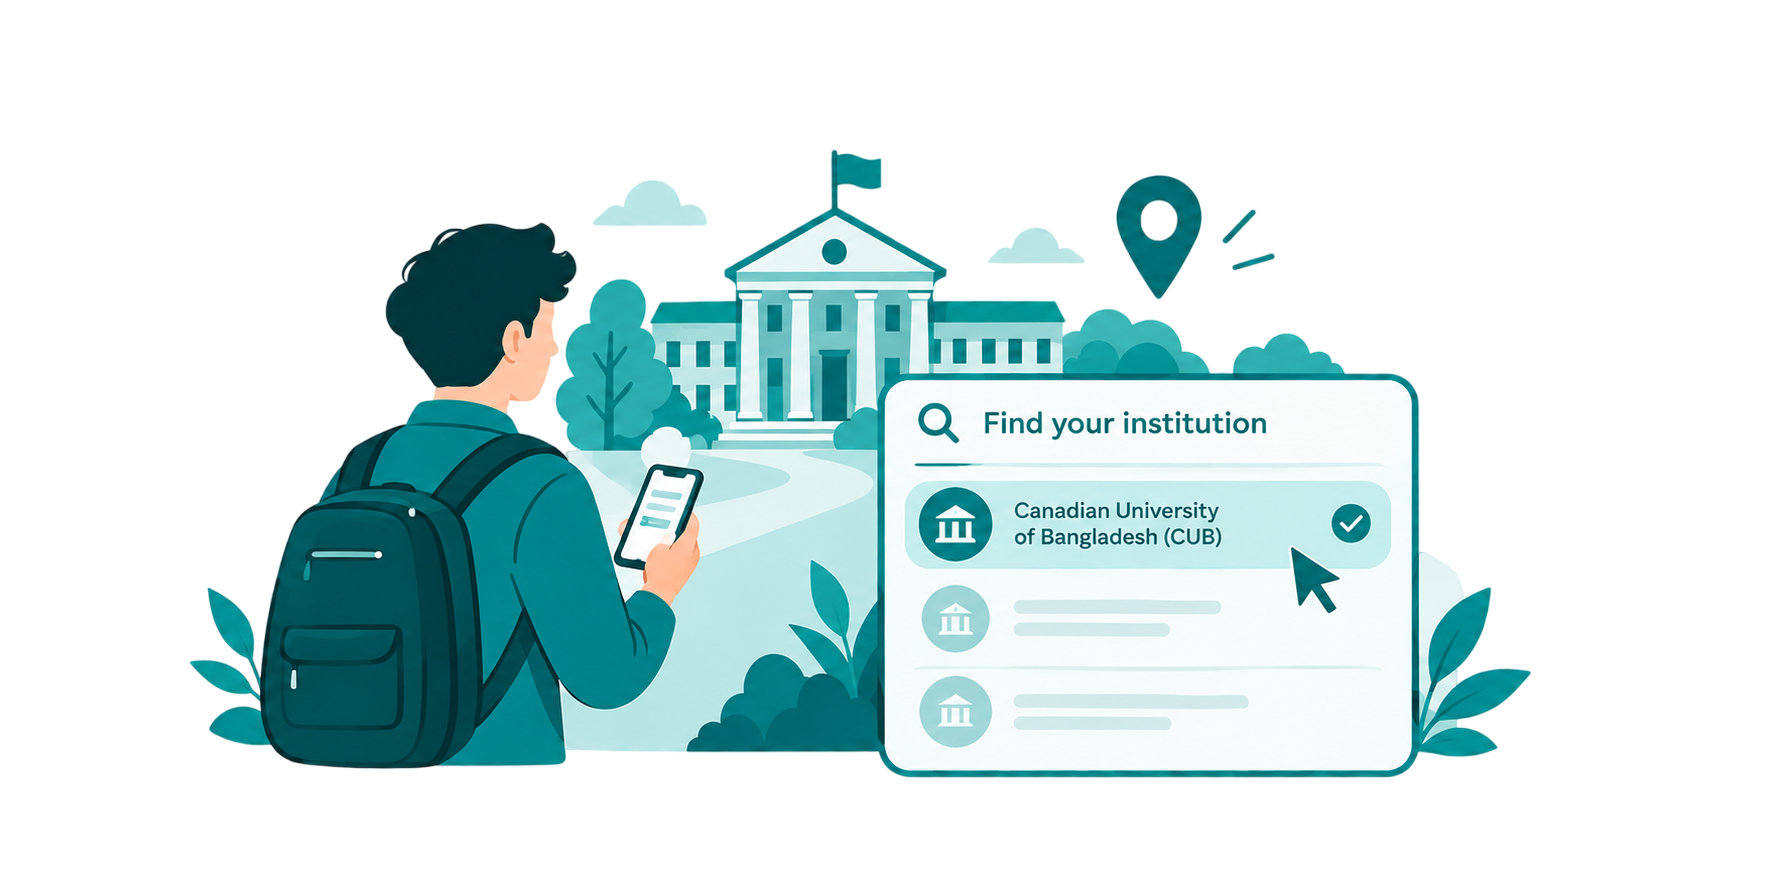
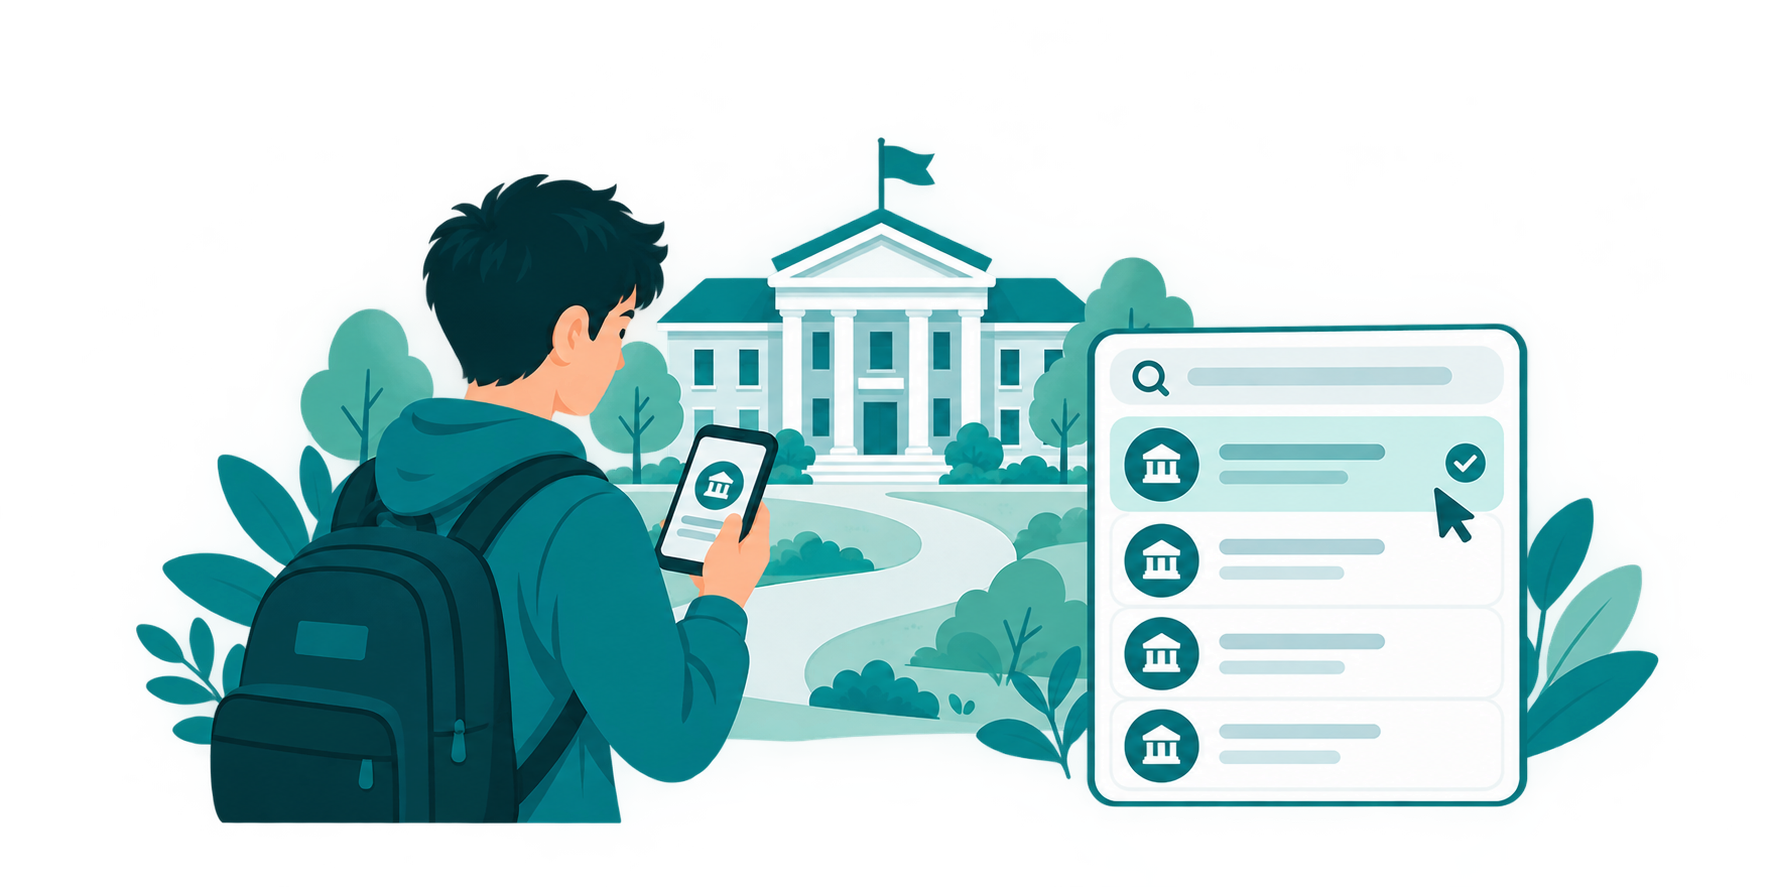
feat: enhance RoleCard and StepCard components with improved layout and styles

diff --git a/src/components/main/role-card.tsx b/src/components/main/role-card.tsx
@@ -6,31 +6,36 @@ import { RoleCardProps } from "@/types/how-it-works";
 // Component to display the role-specific benefits card
 export function RoleCard({ card }: RoleCardProps): React.JSX.Element {
   return (
-    <div className="bg-card border border-border/70 rounded-3xl p-8 md:p-10 flex flex-col relative overflow-hidden group">
-      <span className="text-[10px] font-bold tracking-widest text-primary uppercase mb-2">
-        {card.tag}
-      </span>
-      <h3 className="text-2xl font-bold text-foreground mb-6 text-balance">
-        {card.title}
-      </h3>
-      <ul className="flex flex-col gap-3 mb-16 z-10">
-        {card.items.map((item, i) => (
-          <li key={i} className="flex items-center gap-3 text-sm text-muted-foreground">
-            <CheckCircle2 className="w-4 h-4 text-primary shrink-0" />
-            {item}
-          </li>
-        ))}
-      </ul>
-      <div className="absolute right-2 bottom-2 md:right-8 md:bottom-8 w-1/2 max-w-[240px] pointer-events-none">
+    <div className="bg-card border border-border/70 rounded-3xl grid grid-cols-1 md:grid-cols-2 min-h-[350px] md:min-h-[400px] overflow-hidden group items-stretch relative">
+      
+      {/* Content */}
+      <div className="flex flex-col p-8 md:p-10 justify-center z-10">
+        <span className="text-[10px] font-bold tracking-widest text-primary uppercase mb-2">
+          {card.tag}
+        </span>
+        <h3 className="text-2xl font-bold text-foreground mb-6 text-balance">
+          {card.title}
+        </h3>
+        <ul className="flex flex-col gap-3">
+          {card.items.map((item, i) => (
+            <li key={i} className="flex items-center gap-3 text-sm text-muted-foreground">
+              <CheckCircle2 className="w-4 h-4 text-primary shrink-0" />
+              {item}
+            </li>
+          ))}
+        </ul>
+      </div>
+
+      {/* Image Container */}
+      <div className="relative w-full h-62.5 md:h-full flex items-end justify-end">
         <Image
           src={card.image}
           alt={card.alt}
-          width={240}
-          height={180}
-          className="w-full h-auto object-contain opacity-90 group-hover:scale-105 transition-transform duration-500 rounded-lg"
+          fill
+          className="object-cover md:object-contain object-bottom md:object-bottom-right scale-100 md:scale-125 md:origin-bottom-right group-hover:scale-105 md:group-hover:scale-150 transition-transform duration-700"
         />
       </div>
+      
     </div>
   );
 }
-

diff --git a/src/components/main/step-card.tsx b/src/components/main/step-card.tsx
@@ -2,33 +2,34 @@ import React from "react";
 import Image from "next/image";
 import { ArrowRight } from "lucide-react";
 import { StepCardProps } from "@/types/how-it-works";
+import { cn } from "cn";
 
 // Component to display an individual step in the How It Works section
 export function StepCard({ step, hasArrow }: StepCardProps): React.JSX.Element {
   return (
-    <div className="flex flex-col items-center md:items-start relative group bg-amber-200">
+    <div className="flex flex-col items-center md:items-start relative group w-full">
       <Image
         src={step.image}
         alt={step.alt}
         width={280}
         height={210}
-        className="w-full h-auto object-contain mb-4"
+        className={cn("w-full h-auto object-contain mb-6",step.number!=="01" && "mt-6")}
       />
       
       {/* Subtle arrow pointing to the next step, hidden on mobile */}
       {hasArrow && (
-        <div className="hidden md:flex absolute top-25 md:-right-2 lg:-right-4 items-center justify-center translate-x-1/2 -translate-y-1/2 z-20">
+        <div className="hidden md:flex absolute top-25 md:-right-4 lg:-right-6 items-center justify-center translate-x-1/2 -translate-y-1/2 z-20">
           <ArrowRight className="w-5 h-5 text-primary/40 stroke-[1.5]" />
         </div>
       )}
 
-      <div className="flex gap-4 items-start w-full max-w-70 mx-auto md:mx-0 mt-4 bg-amber-700">
+      <div className="flex gap-4 items-start w-full">
         <div className="w-8 h-8 rounded-full bg-primary text-primary-foreground font-bold flex items-center justify-center shrink-0 text-sm mt-0.5">
           {step.number}
         </div>
         <div className="flex flex-col text-left">
           <h3 className="text-base font-bold text-foreground mb-1.5">{step.title}</h3>
-          <p className="text-[13px] text-muted-foreground leading-relaxed">
+          <p className="text-[13px] text-muted-foreground leading-relaxed pr-2">
             {step.description}
           </p>
         </div>
